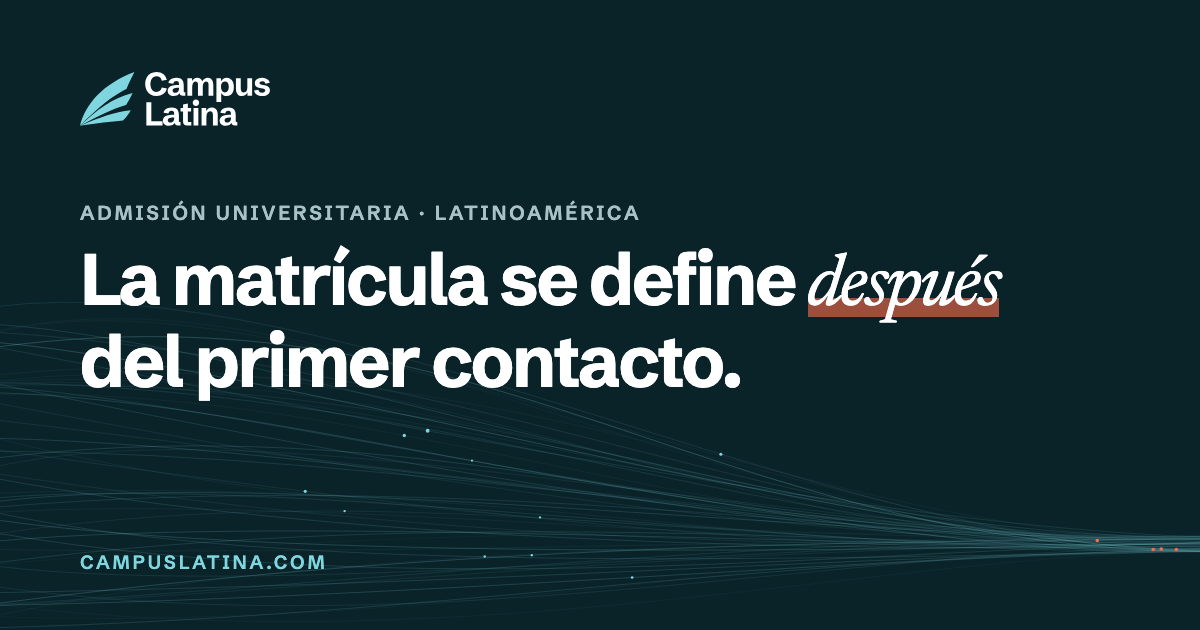
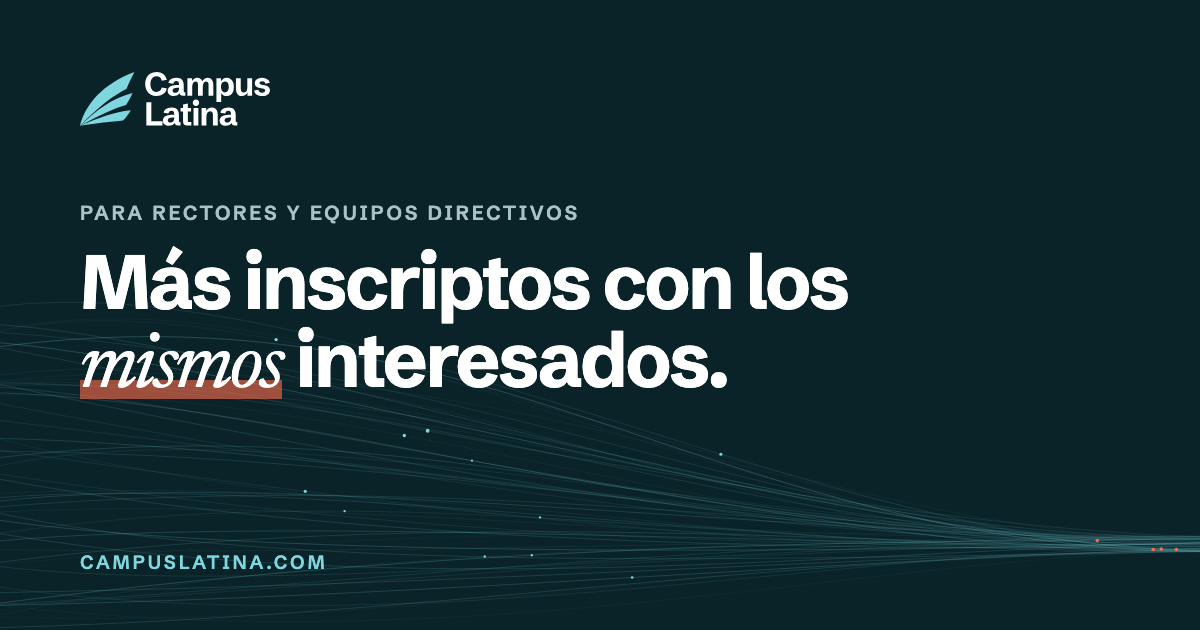
Prototipo: hero «Más inscriptos con los mismos interesados»
Etiqueta dirigida a rectores y equipos directivos, y una bajada que dice las dos cosas:
camino más simple para quienes quieren estudiar y crecimiento de la universidad.
La imagen para compartir (og.png) usa el mismo titular.

Changed region(s): [[0.0617, 0.3921, 0.8325, 0.6333], [0.0617, 0.3016, 0.5242, 0.3619]]

diff --git a/index.html b/index.html
@@ -52,9 +52,9 @@
   <canvas class="campo" data-campo="hero" aria-hidden="true"></canvas>
   <div class="wrap">
     <div class="hero-txt">
-      <span class="etiqueta">Admisión universitaria · Latinoamérica</span>
-      <h1 class="display" id="hero-t">La matrícula se define <em class="hi">después</em> del primer contacto.</h1>
-      <p class="bajada">Campus Latina diseña y opera el proceso de admisión y los primeros pasos del estudiante, para que más aspirantes se inscriban y más estudiantes se queden.</p>
+      <span class="etiqueta">Para rectores y equipos directivos</span>
+      <h1 class="display" id="hero-t">Más inscriptos con los <em class="hi">mismos</em> interesados.</h1>
+      <p class="bajada">Diseñamos y operamos el proceso de admisión de su universidad, de la primera consulta al primer día de clases. Hacemos más simple el camino para quienes quieren estudiar, y su universidad crece con cada estudiante que llega.</p>
       <div class="acciones"><a href="https://diagnostico.campuslatina.com/" class="btn">Hacer el diagnóstico gratuito →</a><a href="/como-trabajamos" class="enlace">Cómo trabajamos</a></div>
       <p class="hero-dato">10 minutos · Gratis · Informe en PDF</p>
     </div>
